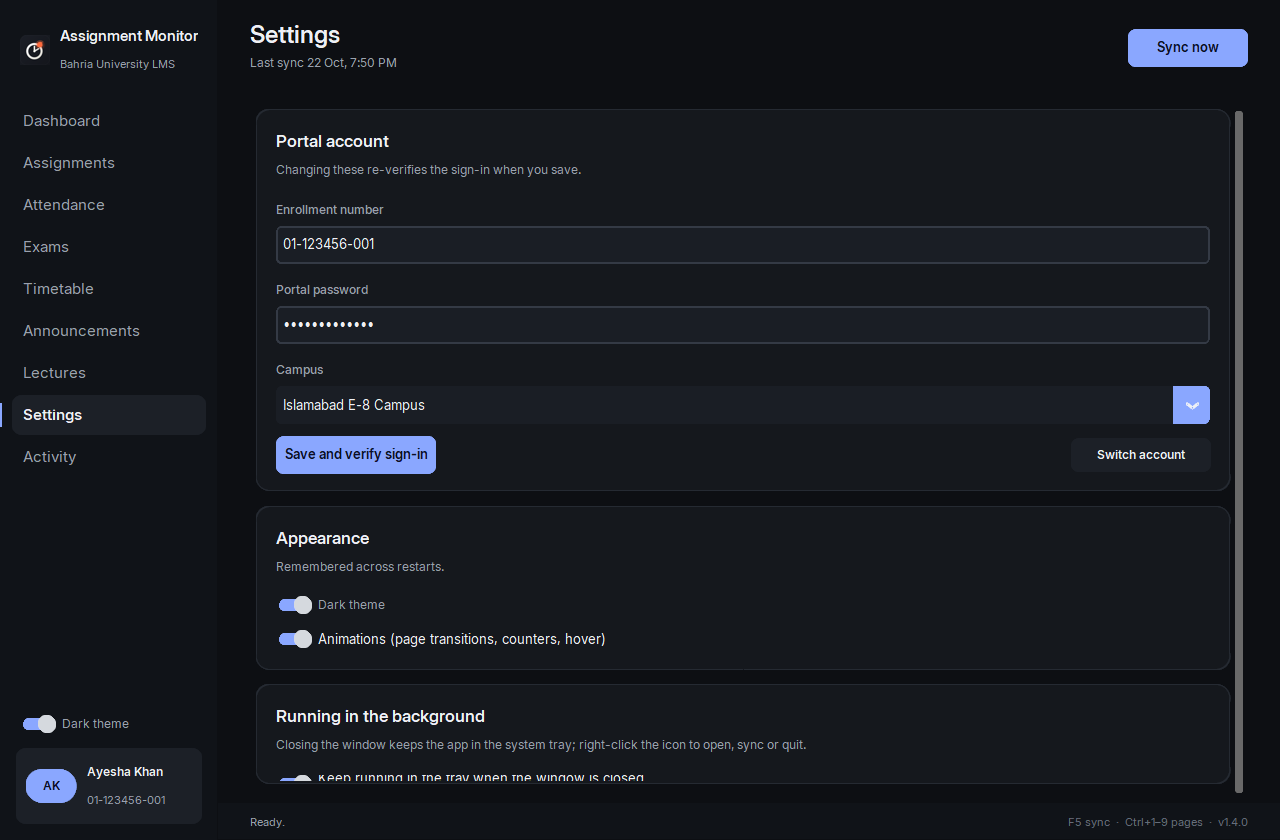
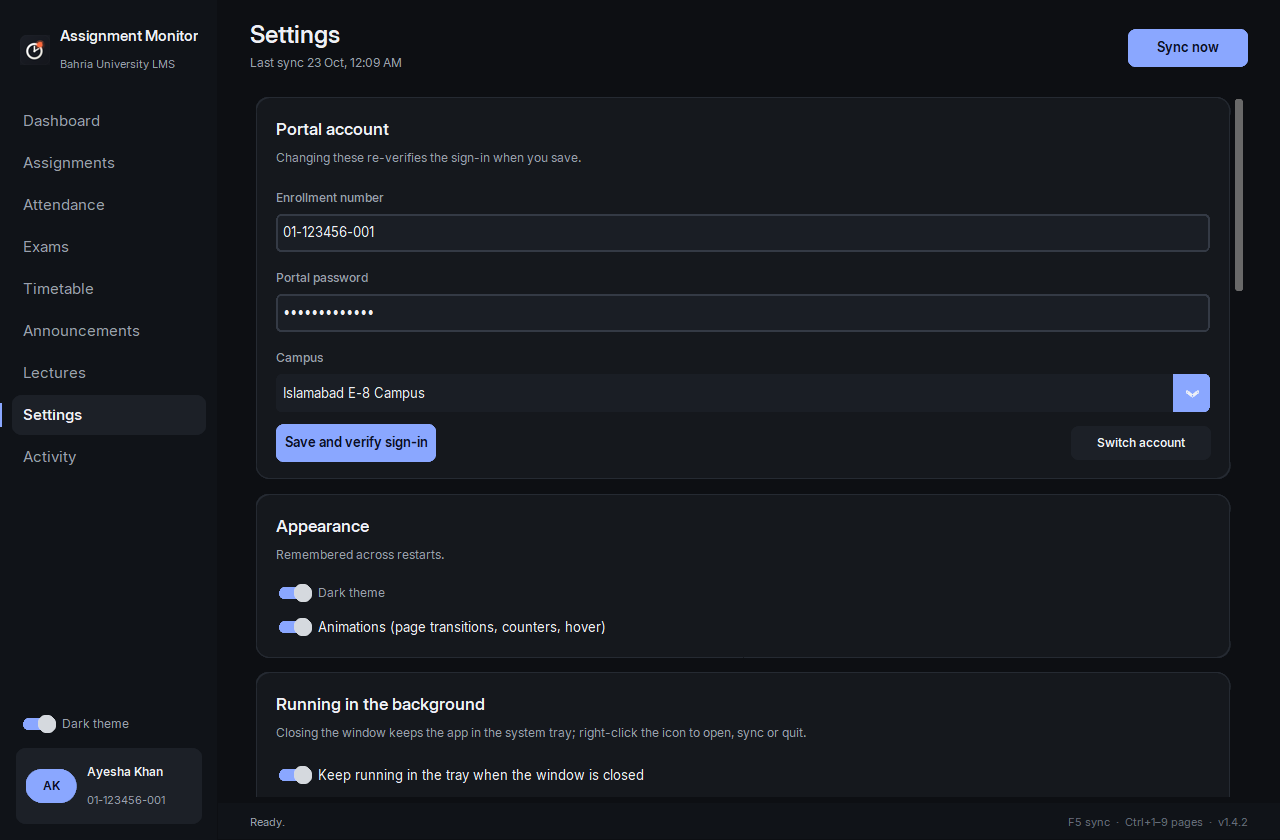
1.4.2: faster, calmer window. Pages are rebuilt only when the data or settings behind them changed (the dashboard once a minute for its countdowns, the activity log every time) and are built before they are shown, so switching pages is instant and a page no longer assembles itself on screen; the pag

diff --git a/website/src/data/content.js b/website/src/data/content.js
@@ -27,10 +27,11 @@ export const NUMBERS = [
 ];
 
 export const TOUR = [
-  { spot: [28.2, 20.5, 59.7, 14.8], label: "Next deadline", title: "The next deadline, with a countdown", text: "Whatever is due soonest and still unsubmitted sits at the top, coloured by urgency. Today is red, this week is amber, later is quiet." },
-  { spot: [28.2, 36.4, 59.8, 10.6], label: "Six counters", title: "Pending, due today, this week, extended, overdue, submitted", text: "Each counter is a filter. Click it and the Assignments page opens on exactly that slice." },
-  { spot: [28.2, 48.2, 35.0, 37.9], label: "Attendance", title: "Your attendance margin, weakest course first", text: "Every course's percentage from the CMS. Red is under the 75% rule; the Attendance page behind it says how many classes you can still miss, or must attend." },
-  { spot: [64.1, 48.2, 23.9, 37.9], label: "Next exam", title: "Room and seat before you have to ask", text: "The seating plan from the CMS with a countdown, time, room, row and seat. A notification comes the day before and on the morning of the paper." },
+  { spot: [19.6, 17.6, 76.8, 15.6], label: "Next deadline", title: "The next deadline, with a countdown", text: "Whatever is due soonest and still unsubmitted sits at the top, coloured by urgency. Today is red, this week is amber, later is quiet." },
+  { spot: [19.6, 33.6, 76.8, 11.4], label: "Six counters", title: "Pending, due today, this week, extended, overdue, submitted", text: "Each counter is a filter. Click it and the Assignments page opens on exactly that slice." },
+  { spot: [19.6, 45.4, 76.8, 24.8], label: "Today's classes", title: "Today's classes, the one happening now highlighted", text: "Read from the CMS timetable: what is next, where, and when. The Timetable page behind it draws the whole week and saves it as a picture." },
+  { spot: [19.9, 70.8, 44.8, 24.6], label: "Attendance", title: "Your attendance margin, weakest course first", text: "Every course's percentage from the CMS. Red is under the 75% rule; the Attendance page behind it says how many classes you can still miss, or must attend." },
+  { spot: [65.6, 70.8, 30.6, 24.6], label: "Next exam", title: "Room and seat before you have to ask", text: "The seating plan from the CMS with a countdown, time, room, row and seat. A notification comes the day before and on the morning of the paper." },
   { spot: [1, 2.5, 16, 96], label: "Always a click away", title: "Light or dark, tray or window", text: "Switch the theme any time. Close the window and it keeps running in the tray; the background checks run even when it doesn't." },
 ];
 
@@ -56,7 +57,7 @@ export const STEPS = [
   { title: "Let it run", text: "Leave \"Check automatically\" ticked. From then on it checks at 7 PM, after you sign in to Windows, and hourly on due days." },
 ];
 
-export const SHOT_V = "140";
+export const SHOT_V = "142";
 export const shot = (id, theme) => `/assets/shot-${id}-${theme}.png?v=${SHOT_V}`;
 
 export const SCREENS = [

diff --git a/app.py b/app.py
@@ -260,8 +260,8 @@ def ease_out(t):
 
 
 def animate(widget, duration, step, done=None):
-    """Runs step(t) with t eased 0..1 over `duration` seconds on the Tk loop (16 ms frames). With animations off,
-    jumps straight to the end state."""
+    """Runs step(t) with t eased 0..1 over `duration` seconds on the Tk loop (33 ms frames, 30 fps). With animations
+    off, jumps straight to the end state."""
     if not ANIMATE["on"]:
         try:
             step(1.0)
@@ -281,7 +281,7 @@ def animate(widget, duration, step, done=None):
         except Exception:
             return
         if t < 1:
-            widget.after(16, tick)
+            widget.after(33, tick)
         elif done:
             done()
     tick()
@@ -310,6 +310,40 @@ def note_scroll(_event=None):
 
 def scrolling() -> bool:
     return time.monotonic() - SCROLL["t"] < 0.35
+
+
+def _wheel_coalesced(self, event):
+    """Replaces CTkScrollableFrame's wheel handler on Windows. Wheel events arrive in bursts (several per notch from
+    precision wheels and touchpads) and the stock handler scrolls and repaints the whole page for each one, which
+    is the stutter and torn text during a fast scroll. The deltas are summed and applied once per frame, and a
+    notch moves 40 px instead of 20."""
+    if not self._check_if_valid_scroll(event.widget):
+        return
+    canvas = self._parent_canvas
+    axis = "x" if self._shift_pressed else "y"
+    if (canvas.xview() if axis == "x" else canvas.yview()) == (0.0, 1.0):
+        return
+    pend = self.__dict__.setdefault("_wheel_pending", {"x": 0, "y": 0, "job": None})
+    pend[axis] -= int(event.delta / 3)
+    if pend["job"] is None:
+        pend["job"] = canvas.after(16, lambda: _wheel_flush(self))
+
+
+def _wheel_flush(self):
+    pend = self._wheel_pending
+    pend["job"] = None
+    try:
+        if pend["x"]:
+            self._parent_canvas.xview("scroll", pend["x"], "units")
+        if pend["y"]:
+            self._parent_canvas.yview("scroll", pend["y"], "units")
+    except Exception:
+        pass
+    pend["x"] = pend["y"] = 0
+
+
+if sys.platform.startswith("win"):
+    ctk.CTkScrollableFrame._mouse_wheel_all = _wheel_coalesced
 
 
 def hover_lift(widget, fg=None, border=None):
@@ -2605,24 +2639,26 @@ class App(ctk.CTk):
             bar.configure(fg_color=C["accent"] if active else "transparent")
         if self.current:
             self.views[self.current].pack_forget()
-        changed = self.current != key
         self.current = key
         view = self.views[key]
-        view.pack(fill="both", expand=True, pady=(12, 0) if changed else 0)
-        if changed:
-            # the page settles into place from a few pixels below. A scrollable page is really its outer frame that
-            # is packed (CustomTkinter overrides pack but not pack_configure); configuring the inner frame instead
-            # packs it into its own canvas, which pins the page to the viewport height and kills scrolling.
-            packed = getattr(view, "_parent_frame", view)
-            animate(view, 0.26, lambda t: packed.pack_configure(pady=(int(round(12 * (1 - t))), 0)))
         self.page_title.configure(text=dict(self.NAV)[key])
+        # a page is rebuilt only when the data or the settings behind it changed since it was last drawn (the
+        # dashboard also every minute for its countdowns and "now" markers, the activity log every time), and it is
+        # rebuilt before it is packed, so it appears in one piece instead of assembling itself on screen
+        stamp = (self.data_version, id(self.env))
+        stale = (getattr(view, "_drawn_for", None) != stamp or key == "activity"
+                 or (key == "dashboard" and time.monotonic() - getattr(view, "_drawn_at", 0) > 60))
         if key == "assignments" and kwargs:
             view.apply(kwargs.get("filter_name"), kwargs.get("course"))
-        elif hasattr(view, "refresh"):
+            view._drawn_for, view._drawn_at = stamp, time.monotonic()
+        elif hasattr(view, "refresh") and stale:
             view.refresh()
+            view._drawn_for, view._drawn_at = stamp, time.monotonic()
+        view.pack(fill="both", expand=True)
 
     # ---- data
     def reload_data(self):
+        self.data_version = getattr(self, "data_version", 0) + 1
         self.data = load_stored_assignments()
         self.attendance = load_attendance()
         self.exams = load_exams()

diff --git a/config.py b/config.py
@@ -14,7 +14,7 @@ from pathlib import Path
 APP_NAME = "Assignment Monitor"
 TAGLINE = "for Bahria University LMS"
 APP_ID = "Nobody243.AssignmentMonitor"       # Windows AppUserModelID (taskbar grouping / toasts)
-APP_VERSION = "1.4.1"
+APP_VERSION = "1.4.2"
 REPO_URL = "https://github.com/Nobody243/Assignment_Monitor"
 RELEASES_URL = REPO_URL + "/releases/latest"
 SITE_URL = "https://assignment-monitor.vercel.app"

diff --git a/CHANGELOG.md b/CHANGELOG.md
@@ -1,5 +1,11 @@
 # Changelog
 
+## 1.4.2 - 2026-10-22
+
+- Faster, calmer window: pages are rebuilt only when the data or settings behind them changed (the dashboard also once a minute for its countdowns), and they are built before they are shown, so switching between pages is instant and a page no longer assembles itself on screen; the page slide-in is gone because it re-laid out every widget for a dozen frames; the remaining animations run at 30 frames a second.
+- Smoother scrolling: wheel events are gathered and applied once per frame instead of repainting the page for every one of the burst a precision wheel or touchpad sends, and a notch moves 40 px instead of 20.
+- Website: screenshots retaken from this build and the dashboard tour re-aimed at the cards, which had moved down when today's classes joined the page.
+
 ## 1.4.1 - 2026-10-22
 
 - Fix: the Dashboard, Exams and Settings pages could not be scrolled and their content was pinned to the window height (since 1.3.1, when the page slide-in started reconfiguring the wrong frame). Settings is reachable to the bottom again.
